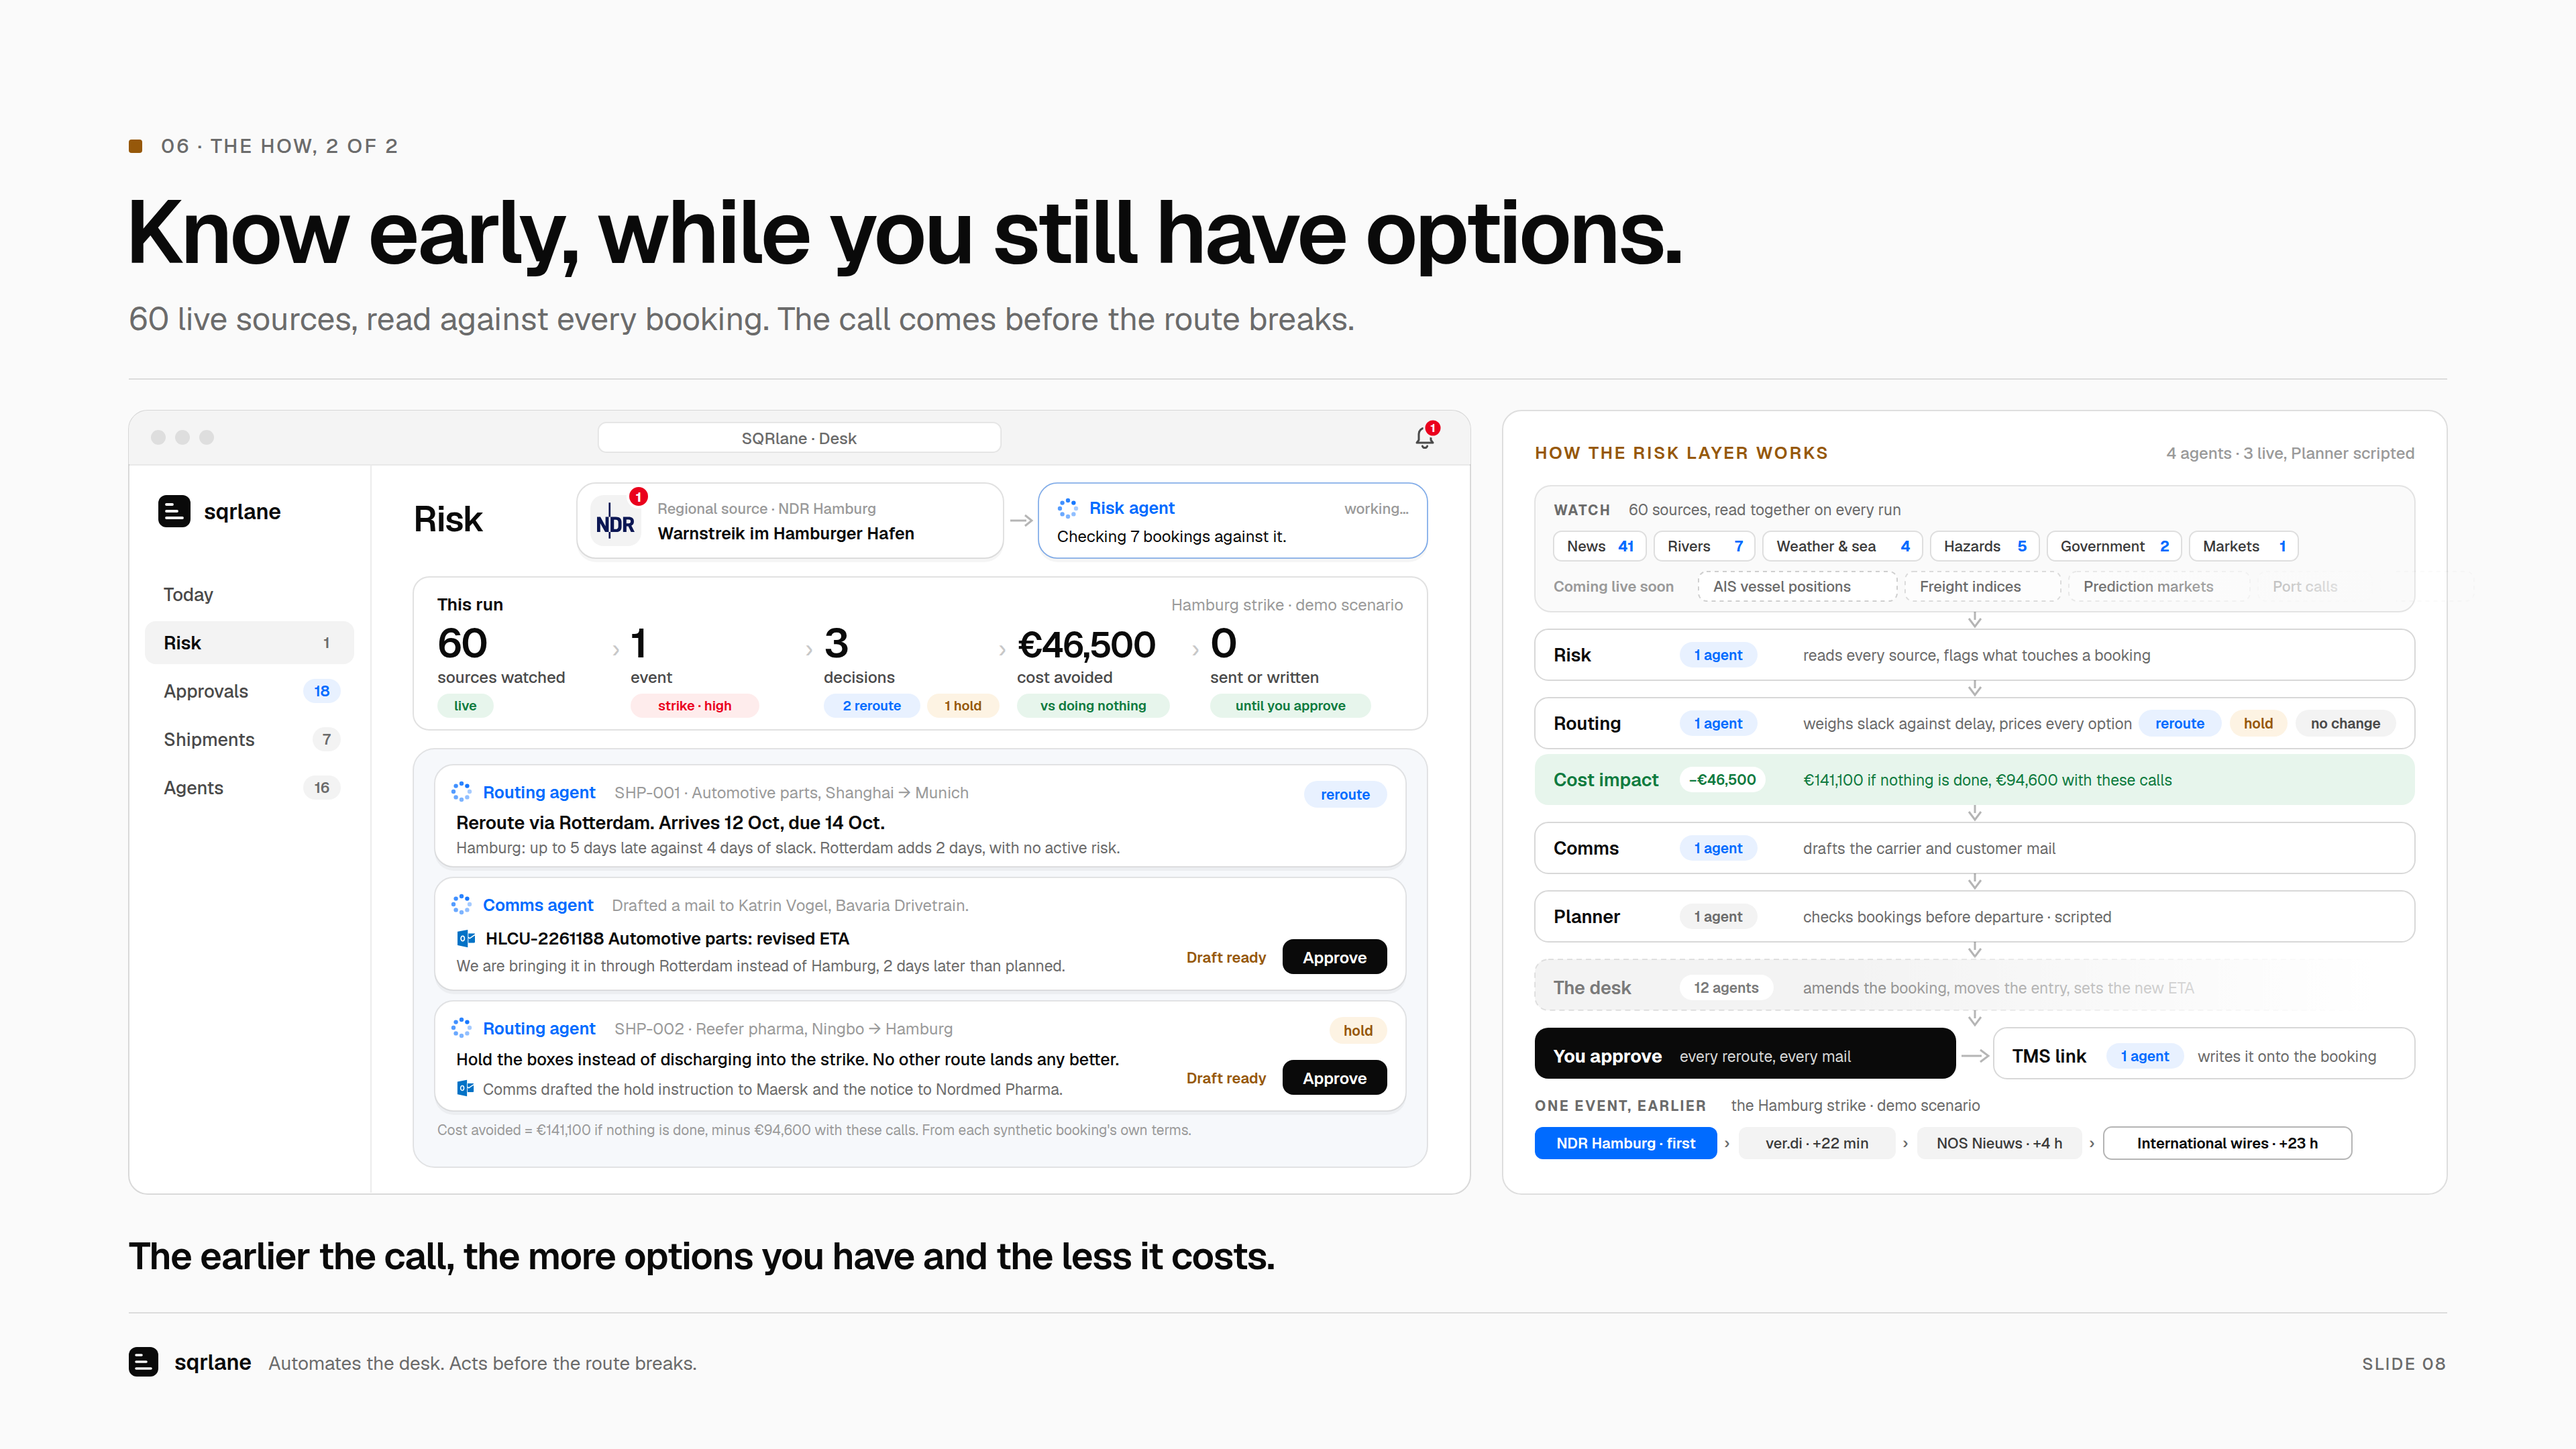
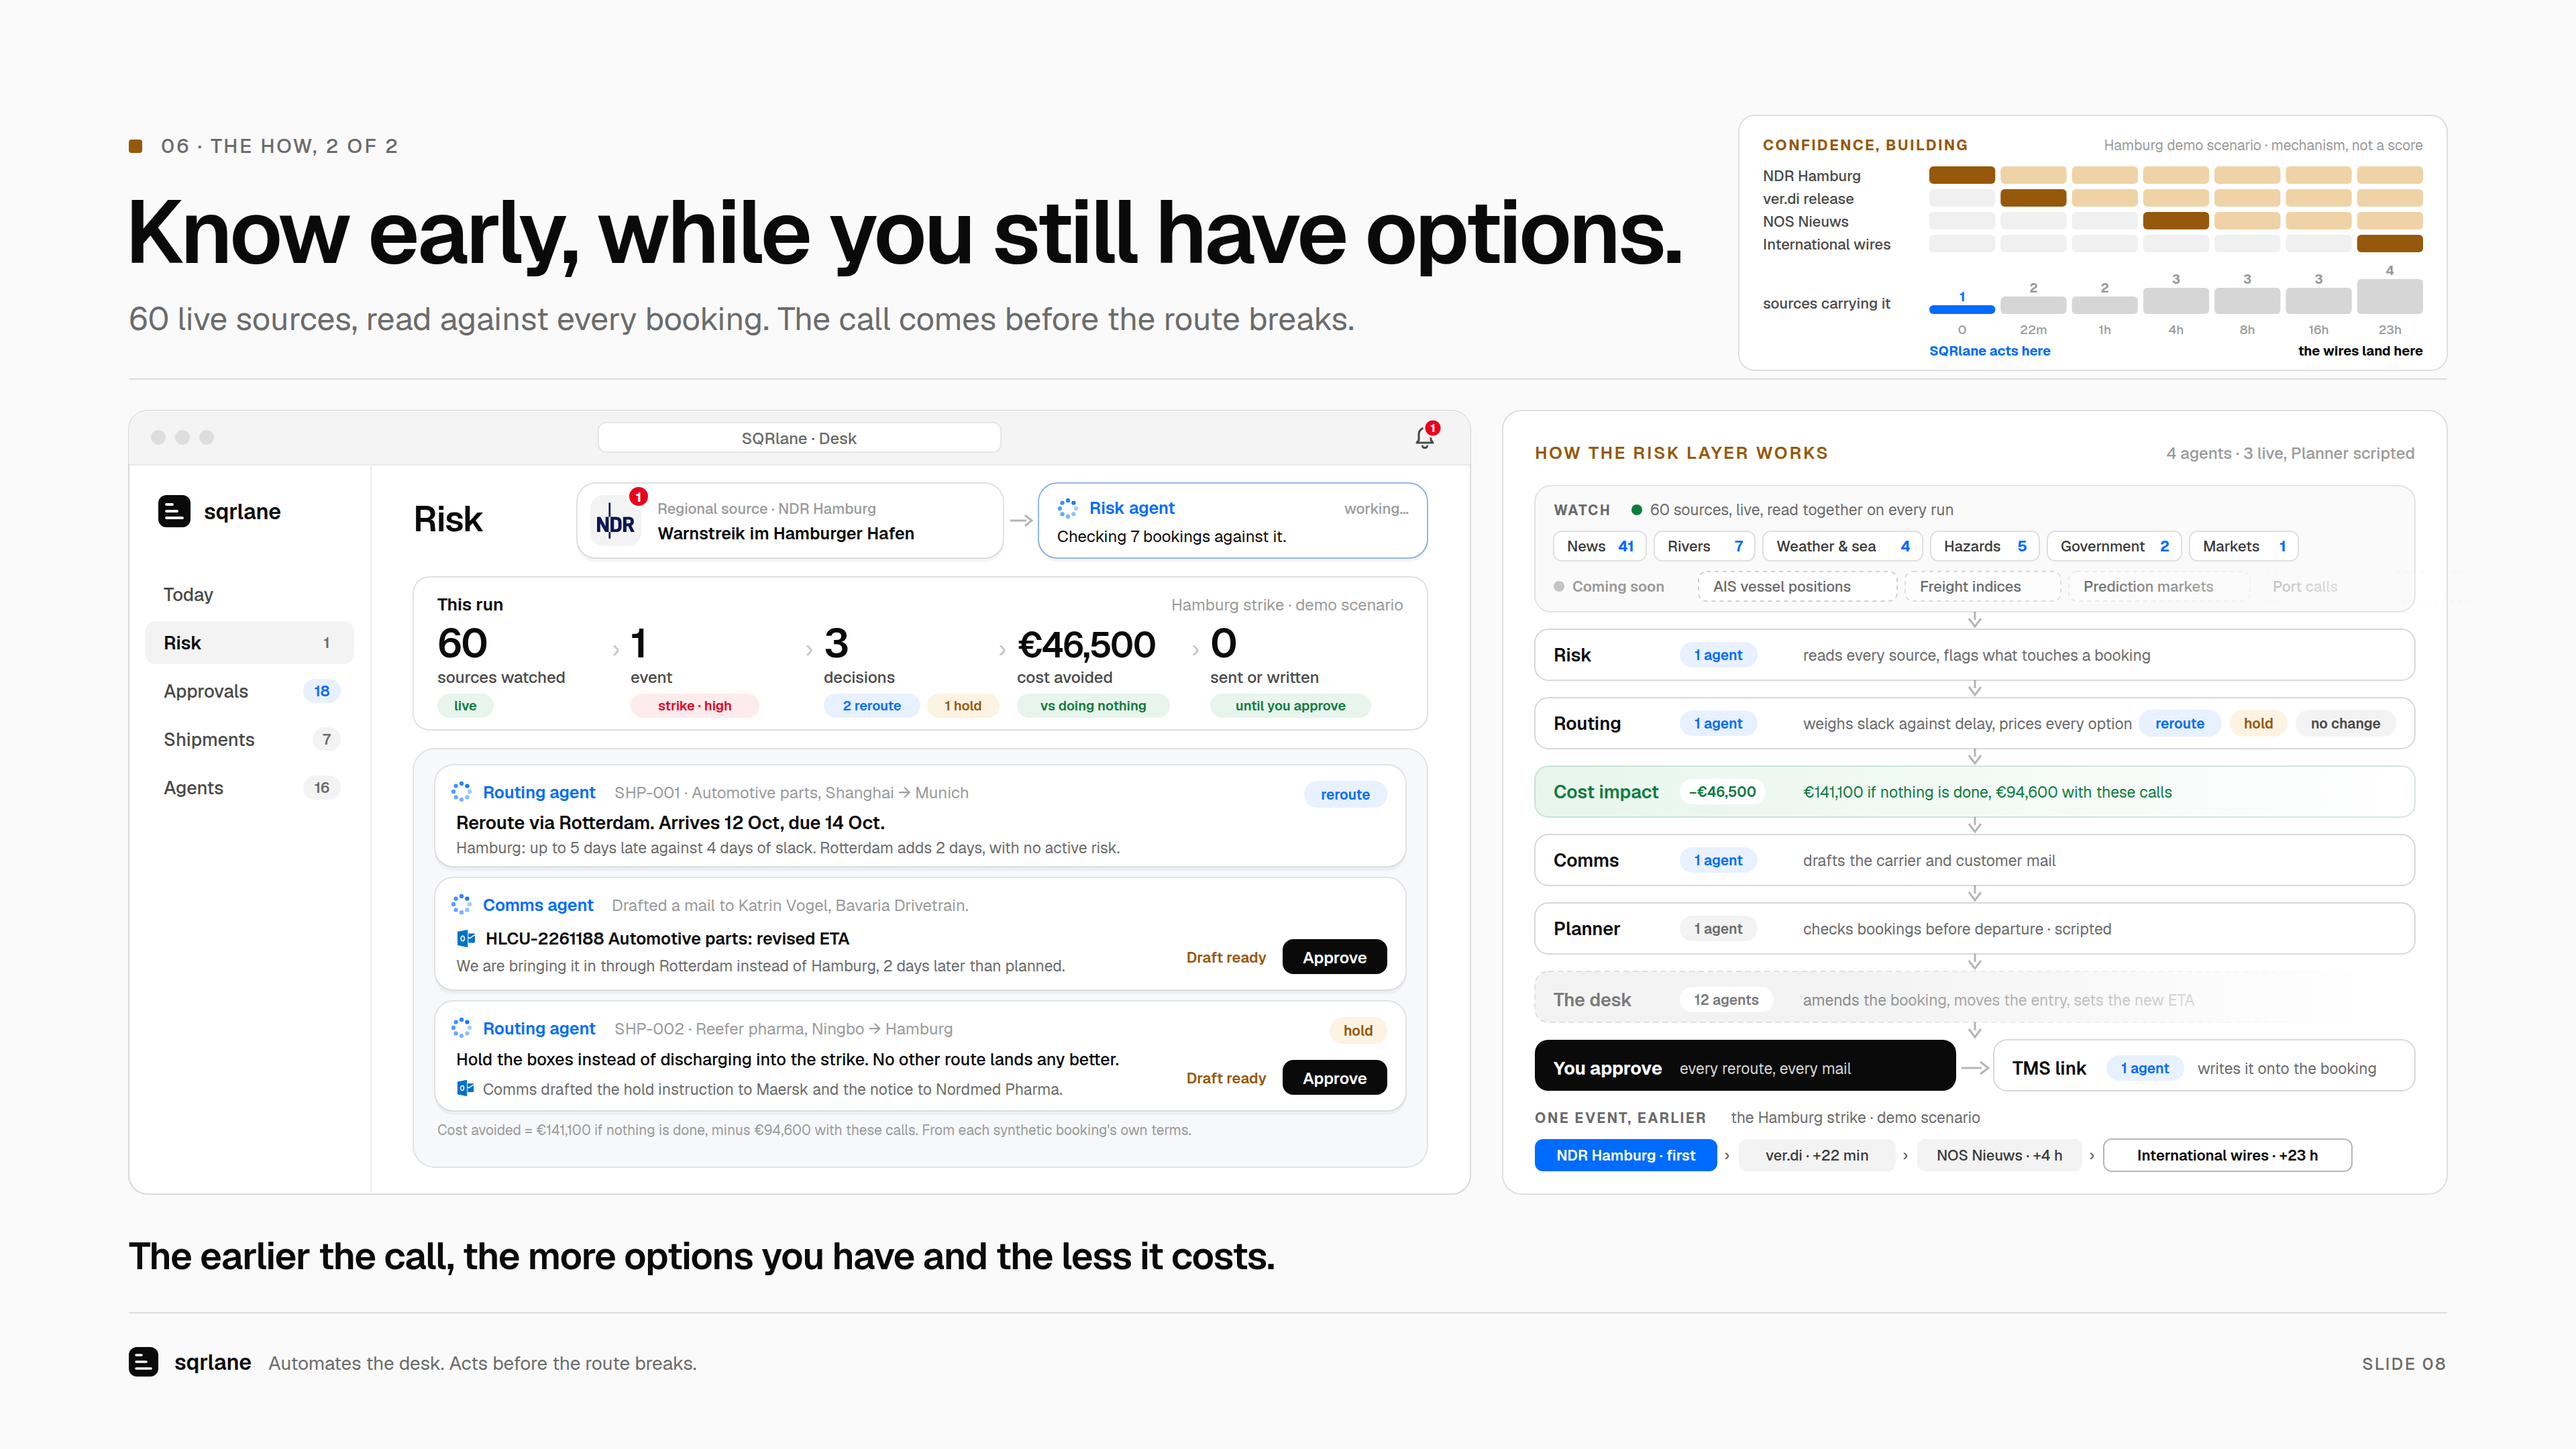
Deck v2 slide 08: confidence grid from the Hamburg trail, live and coming-soon dots, fading cost row
Claude-Session: https://claude.ai/code/session_014BsH9ow2RbGmbV9G28PBg8

diff --git a/deck/v2/build_08.py b/deck/v2/build_08.py
@@ -232,7 +232,8 @@ y = TOP + 56
 s.g("watch")
 s.R(hx, y, hw, 94, BG, 12, f' stroke="{INK}" stroke-opacity="0.10"')
 s.T(hx + 14, y + 22, "WATCH", 10.5, 700, MUT, ls=1.2)
-s.T(hx + 70, y + 22, "60 sources, read together on every run", 11.5, 400, MUT)
+s.raw(f'<circle cx="{hx + 76}" cy="{y + 18}" r="4" fill="{GREEN}"/>')
+s.T(hx + 86, y + 22, "60 sources, live, read together on every run", 11.5, 400, MUT)
 fx = hx + 14
 for fam, n in (("News", 41), ("Rivers", 7), ("Weather & sea", 4), ("Hazards", 5), ("Government", 2), ("Markets", 1)):
     lab = fam.replace("&", "&amp;")
@@ -241,7 +242,8 @@ for fam, n in (("News", 41), ("Rivers", 7), ("Weather & sea", 4), ("Hazards", 5)
     s.T(fx + 10, y + 49, lab, 11, 500, "#3A3A3A")
     s.T(fx + w - 9, y + 49, str(n), 11, 700, BLUE, anchor="end")
     fx += w + 6
-s.T(hx + 14, y + 79, "Coming live soon", 11, 600, GREY)
+s.raw(f'<circle cx="{hx + 18}" cy="{y + 75}" r="4" fill="#C4C4C4"/>')
+s.T(hx + 28, y + 79, "Coming soon", 11, 600, GREY)
 fx = hx + 122
 for k, nxt in enumerate(("AIS vessel positions", "Freight indices", "Prediction markets", "Port calls", "")):
     op = (0.85, 0.6, 0.38, 0.2, 0.08)[k]
@@ -277,13 +279,16 @@ def outcomes(yy):
 row("Risk", "1 agent", "reads every source, flags what touches a booking", "risk-agent")
 arrow(y, y + 11); y += 13
 row("Routing", "1 agent", "weighs slack against delay, prices every option", "routing-agent", right=outcomes)
+arrow(y, y + 11); y += 13
 s.g("cost-impact")
-s.R(hx, y + 4, hw, ROWH, GREEN_BG, 10)
-s.T(hx + 14, y + 28, "Cost impact", 13.5, 600, GREEN)
-count_chip(NX, y + 13.5, "−€46,500", CARD, GREEN)
-s.T(NX + 92, y + 27.5, "€141,100 if nothing is done, €94,600 with these calls", 11.5, 400, GREEN)
+s.raw('<defs><linearGradient id="cost-fade" x1="0" y1="0" x2="1" y2="0">'
+      f'<stop offset="0" stop-color="{GREEN_BG}"/><stop offset="1" stop-color="{CARD}"/></linearGradient></defs>')
+s.R(hx, y, hw, ROWH, "url(#cost-fade)", 10, f' stroke="{GREEN}" stroke-opacity="0.18"')
+s.T(hx + 14, y + 24, "Cost impact", 13.5, 600, GREEN)
+count_chip(NX, y + 9.5, "−€46,500", CARD, GREEN)
+s.T(NX + 92, y + 23.5, "€141,100 if nothing is done, €94,600 with these calls", 11.5, 400, GREEN)
 s.end()
-y += ROWH + 4
+y += ROWH
 arrow(y, y + 11); y += 13
 row("Comms", "1 agent", "drafts the carrier and customer mail", "comms-agent")
 arrow(y, y + 11); y += 13
@@ -341,5 +346,39 @@ s.end()
 s.end()
 
 s.T(M, 946, "The earlier the call, the more options you have and the less it costs.", 28, 600, ls=-0.6)
+# ---- confidence, building: the Hamburg demo scenario's detection trail (scenarios.json),
+# one row per source at its real offset; the bars count the sources carrying the story.
+# Not a model score: a count, and labelled as the mechanism.
+KX, KY, KW, KH = 1296, 86, W - M - 1296, 190
+s.g("confidence-building")
+s.card(KX, KY, KW, KH, 12)
+kx = KX + 18
+s.T(kx, KY + 26, "CONFIDENCE, BUILDING", 11, 700, AMB, ls=1.2)
+s.T(KX + KW - 18, KY + 26, "Hamburg demo scenario · mechanism, not a score", 10.5, 400, GREY, anchor="end")
+COLS = ["0", "22m", "1h", "4h", "8h", "16h", "23h"]
+MIN = [0, 22, 60, 260, 480, 960, 1380]   # 4h column = NOS at +4h 20m
+SRCS = [("NDR Hamburg", 0), ("ver.di release", 22), ("NOS Nieuws", 260), ("International wires", 1380)]
+GX = kx + 124; CW_ = (KX + KW - 18 - GX - 6 * 4) / 7
+HEAT_ON, HEAT_NEW, HEAT_OFF = "#EFD3A6", AMB, "#F0F0F0"
+for r, (name, at) in enumerate(SRCS):
+    ry = KY + 38 + r * 17
+    s.T(kx, ry + 11, name, 11, 500, "#4A4A4A")
+    first = next(c for c, m in enumerate(MIN) if m >= at)
+    for c in range(7):
+        fill = HEAT_OFF if c < first else (HEAT_NEW if c == first else HEAT_ON)
+        s.R(GX + c * (CW_ + 4), ry, CW_, 13, fill, 3)
+# sources carrying it, per column; the time axis under it
+BASE, BH = KY + 148, 26
+s.T(kx, BASE - 4, "sources carrying it", 11, 500, "#4A4A4A")
+for c, m in enumerate(MIN):
+    n = sum(1 for _, at in SRCS if at <= m)
+    h = BH * n / 4
+    s.R(GX + c * (CW_ + 4), BASE - h, CW_, h, BLUE if c == 0 else "#D6D6D6", 3)
+    s.T(GX + c * (CW_ + 4) + CW_ / 2, BASE - h - 3, str(n), 9.5, 700, BLUE if c == 0 else GREY, anchor="middle")
+    s.T(GX + c * (CW_ + 4) + CW_ / 2, BASE + 15, COLS[c], 9.5, 500, GREY, anchor="middle")
+s.T(GX, BASE + 31, "SQRlane acts here", 10, 700, BLUE)
+s.T(GX + 7 * (CW_ + 4) - 4, BASE + 31, "the wires land here", 10, 700, INK, anchor="end")
+s.end()
+
 s.footer(8)
 s.write("slide-08-the-how-2.svg")

diff --git a/deck/v2/HANDOFF.md b/deck/v2/HANDOFF.md
@@ -86,6 +86,16 @@ agents' grid, under Routing, in light green: "Cost impact · −€46,500 · €
 is done, €94,600 with these calls" (the two-bar version took too much room). Both drafts end
 in the same "Draft ready" + Approve pair.
 
+Fifth pass: the cost impact row has the same gap and arrow as the others and a green
+gradient fading right; a green dot marks the 60 live sources, a grey dot "Coming soon".
+**Confidence, building** sits top right, beside the headline, rebuilt from the old deck's
+grid but only from the Hamburg scenario's own detection trail: one row per trail source
+(NDR Hamburg 0, ver.di release +22 min, NOS Nieuws +4h 20m, international wires +23 h),
+lit from its real offset, and a bar row counting the sources carrying the story (1, 2, 2,
+3, 3, 3, 4 - a count, not a model score). "SQRlane acts here" under 0, "the wires land
+here" under 23h, labelled "Hamburg demo scenario · mechanism, not a score". SQRlane has no
+confidence score, so none is drawn.
+
 "Draft, not sent" now reads "Draft ready" on slides 07 and 08, on the owner's instruction;
 the Approve button still carries the gate, and nothing is ever sent.
 
